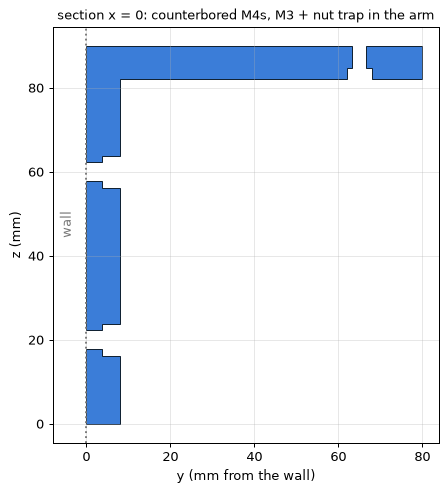
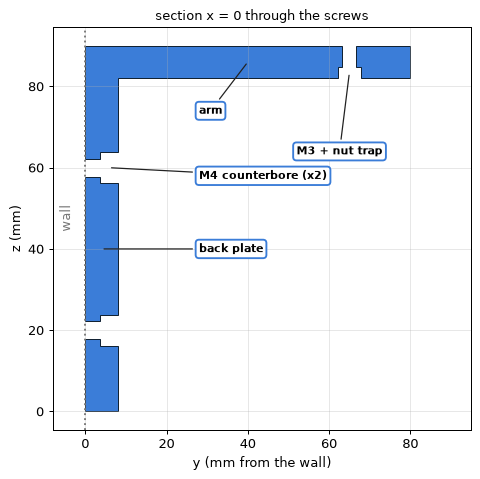
README: labelled assembly render full width; example section plot labelled too
Claude-Session: https://claude.ai/code/session_011ENM5ptTqPDScc48czJKK8

Changed region(s): [[0.0, 0.0, 1.0, 0.9937], [0.4062, 0.2046, 0.4688, 0.263]]

diff --git a/skills/print-part/scripts/example_bracket.py b/skills/print-part/scripts/example_bracket.py
@@ -79,7 +79,15 @@ for g in getattr(sec, "geoms", [sec]):
     for hl in g.interiors: x, y = hl.xy; ax.fill(x, y, fc="white", ec="#123", lw=0.8)
 ax.axvline(0, color="#777", ls=":"); ax.text(-3, 45, "wall", rotation=90, color="#777", ha="right")
 ax.set_aspect("equal"); ax.grid(alpha=0.3); ax.set_xlabel("y (mm from the wall)"); ax.set_ylabel("z (mm)")
-ax.set_xlim(-8, None); ax.set_title("section x = 0: counterbored M4s, M3 + nut trap in the arm", fontsize=10)
+def callout(text, xy, xytext):                            # name the parts and features, same words as the render
+    ax.annotate(text, xy=xy, xytext=xytext, fontsize=9, weight="bold", ha="left", va="center",
+                bbox=dict(boxstyle="round,pad=0.3", fc="white", ec="#3b7dd8", lw=1.5),
+                arrowprops=dict(arrowstyle="-", color="#222", lw=1, shrinkB=2))
+callout("M4 counterbore (x2)", (T - WALL["cb_h"]/2, Z_WALL_HOLES[1]), (28, 58))
+callout("back plate", (T/2, 40), (28, 40))
+callout("arm", (40, H - T/2), (28, 74))
+callout("M3 + nut trap", (Y_SHELF_HOLE, H - T + SHELF["nut_h"]/2), (52, 64))
+ax.set_xlim(-8, 95); ax.set_title("section x = 0 through the screws", fontsize=10)
 fig.savefig(str(out/"bracket_section.png"), dpi=90, bbox_inches="tight"); print(f"  -> {out/'bracket_section.png'}")
 
 if a.render:                                              # the sibling skill's renderer

diff --git a/README.md b/README.md
@@ -41,9 +41,14 @@ M3 lengths (board 18 + arm above the nut): [(30, 6.7)]
 plate bracket_1.3mf: 2 parts  4.0..94.0 x 4.0..170.0  overlap 0.00 mm3  (180 bed: OK)
 ```
 
-| assembly | section through the screws | plate |
-|---|---|---|
-| ![assembly](docs/bracket_assembly.png) | ![section](docs/bracket_section.png) | ![plate](docs/bracket_1_plate.png) |
+![the bracket in place, parts and features labelled](docs/bracket_assembly.png)
+
+Every part and feature under discussion carries its name - the same name in the picture, the file names, the
+docs and the chat, so "the M3 + nut trap" means one thing to the person and the agent.
+
+| section through the screws | plate, parts named as in the 3mf |
+|---|---|
+| ![section](docs/bracket_section.png) | ![plate](docs/bracket_1_plate.png) |
 
 ## The idea in one paragraph
 
